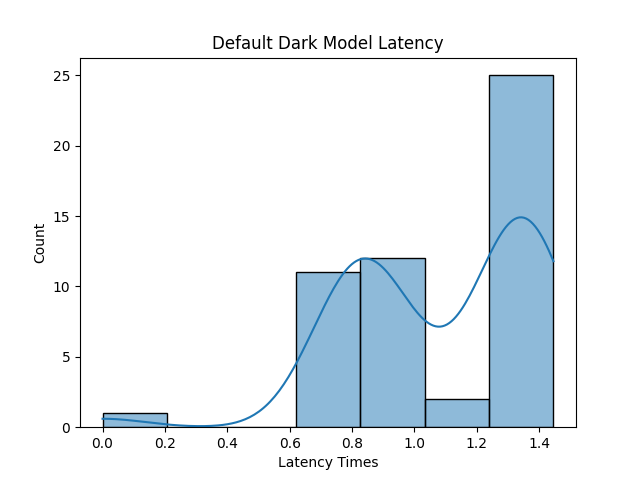
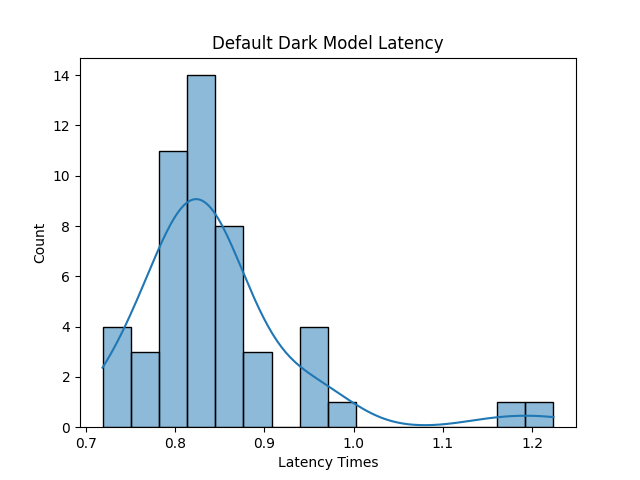
updating to read lines accurately

diff --git a/latency.py b/latency.py
@@ -7,8 +7,13 @@ light_times = []
 dark_times = []
 for filename in glob.glob('Default 50 Trials/*.txt'):
     with open(filename, 'r') as f:
-        light_times.append(float(f.readline().split(':')[3]))
-        dark_times.append(float(f.readline().split(':')[3]))
+        lines = f.readlines()
+        for line in lines:
+            values = line.split(':')
+            if 'light' in values[0]:
+                light_times.append(float(values[3]))
+            else:
+                dark_times.append(float(values[3]))
 
 light_times = np.array(light_times)
 dark_times = np.array(dark_times)
